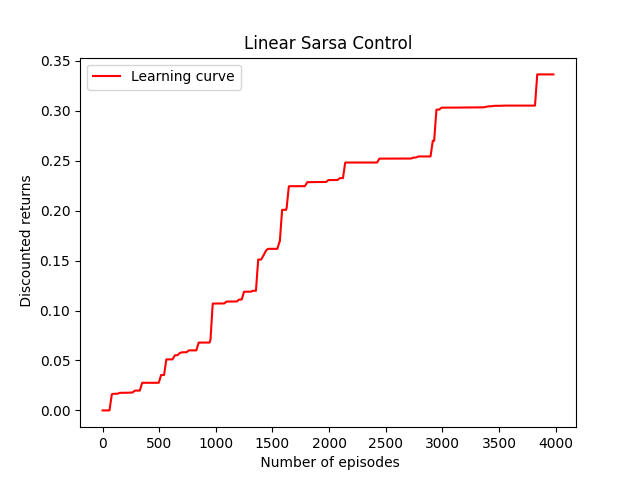
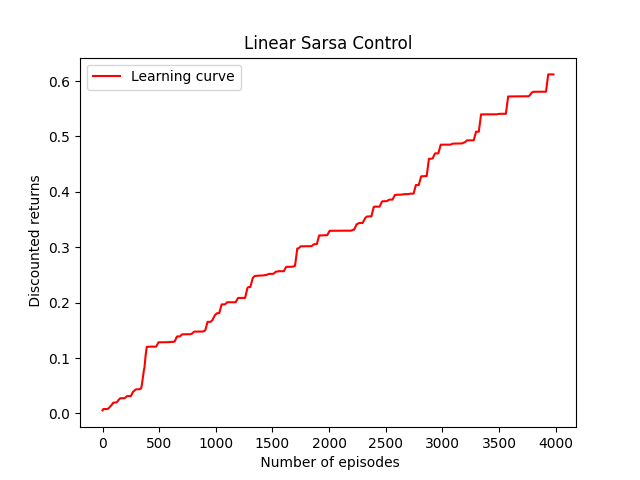
Updated Linear sarsa
Added/Cahnged code for linear sarsa to get the optimum path

diff --git a/Models/NonTabularModelFreeRL/LinearSarsa.py b/Models/NonTabularModelFreeRL/LinearSarsa.py
@@ -24,12 +24,14 @@ def linear_sarsa(env, max_episodes, eta, gamma, epsilon,plot = False, seed=None)
         
         while not done:
             features_, r, done = env.step(a)
+            q_ = features_.dot(theta)
             a_ = epgreedy(epsilon[i], q)
             e = e + features[a]
-            theta += eta[i] * (r + gamma * q[a_] - q[a]) * e 
-            e = gamma_decay[i] * e + features[a]
+            theta += eta[i] * (r + gamma * q_[a_] - q[a]) * e 
+            e = gamma_decay[i] * e + features_[a_]
             a = a_
             features = features_
+            q = q_
             disc_ret += (gamma**(cde - 1))*r
             cde+=1
         returns.append(disc_ret)

diff --git a/test.py b/test.py
@@ -1,5 +1,4 @@
 from _init_._init_ import *
-from DeepReinforcedLearning import *
 
 #big lake
 
@@ -60,11 +59,11 @@ image_env = FrozenLakeImageWrapper(env)
 
 # print('')
 
-print('## Linear Q-learning')
+# print('## Linear Q-learning')
 
-parameters = linear_q_learning(linear_env, max_episodes, eta=0.5, gamma=gamma, epsilon=0.5, seed=seed)
-policy, value = linear_env.decode_policy(parameters)
-linear_env.render(policy, value)
+# parameters = linear_q_learning(linear_env, max_episodes, eta=0.5, gamma=gamma, epsilon=0.5, seed=seed)
+# policy, value = linear_env.decode_policy(parameters)
+# linear_env.render(policy, value)
 
 # print('')
 

diff --git a/plotting.py b/plotting.py
@@ -12,11 +12,11 @@ gamma = 0.5
 max_episodes = 4000
 linear_env = LinearWrapper(env)
 
-ret = linear_q_learning(linear_env, max_episodes, eta=0.5, gamma=gamma, epsilon=0.5, plot = True, seed=seed)
+ret = linear_sarsa(linear_env, max_episodes, eta=0.5, gamma=gamma, epsilon=0.5, plot = True, seed=seed)
 y = np.convolve(ret, np.ones(20)/20, mode= 'valid')
 
 plt.plot( y, c = "red", label = "Learning curve")
-plt.title("Linear Q Learning Control")
+plt.title("Linear Sarsa Control")
 plt.xlabel(" Number of episodes")
 plt.ylabel(" Discounted returns")
 plt.legend()

diff --git a/DeepReinforcedLearning.py b/DeepReinforcedLearning.py
@@ -28,7 +28,7 @@ class FrozenLakeImageWrapper:
             #player position
             player_state[state//lake.shape[0]][state%lake.shape[1]] = 1
                 
-            self.state_image[state] = [player_state, start_state, hole_state, goal_state]
+            self.state_image{state} = [player_state, start_state, hole_state, goal_state]
             
                 
 
